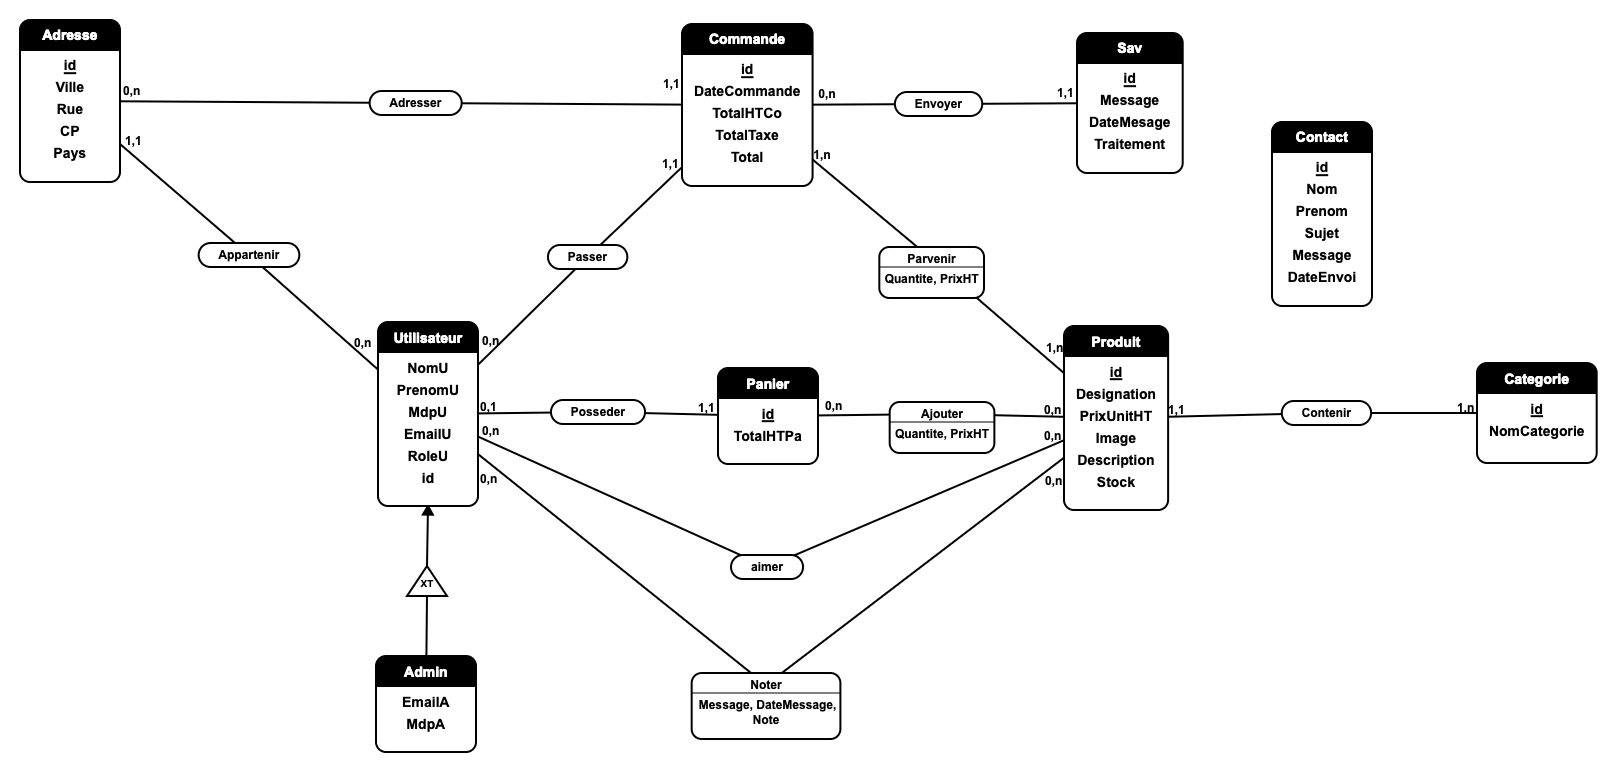
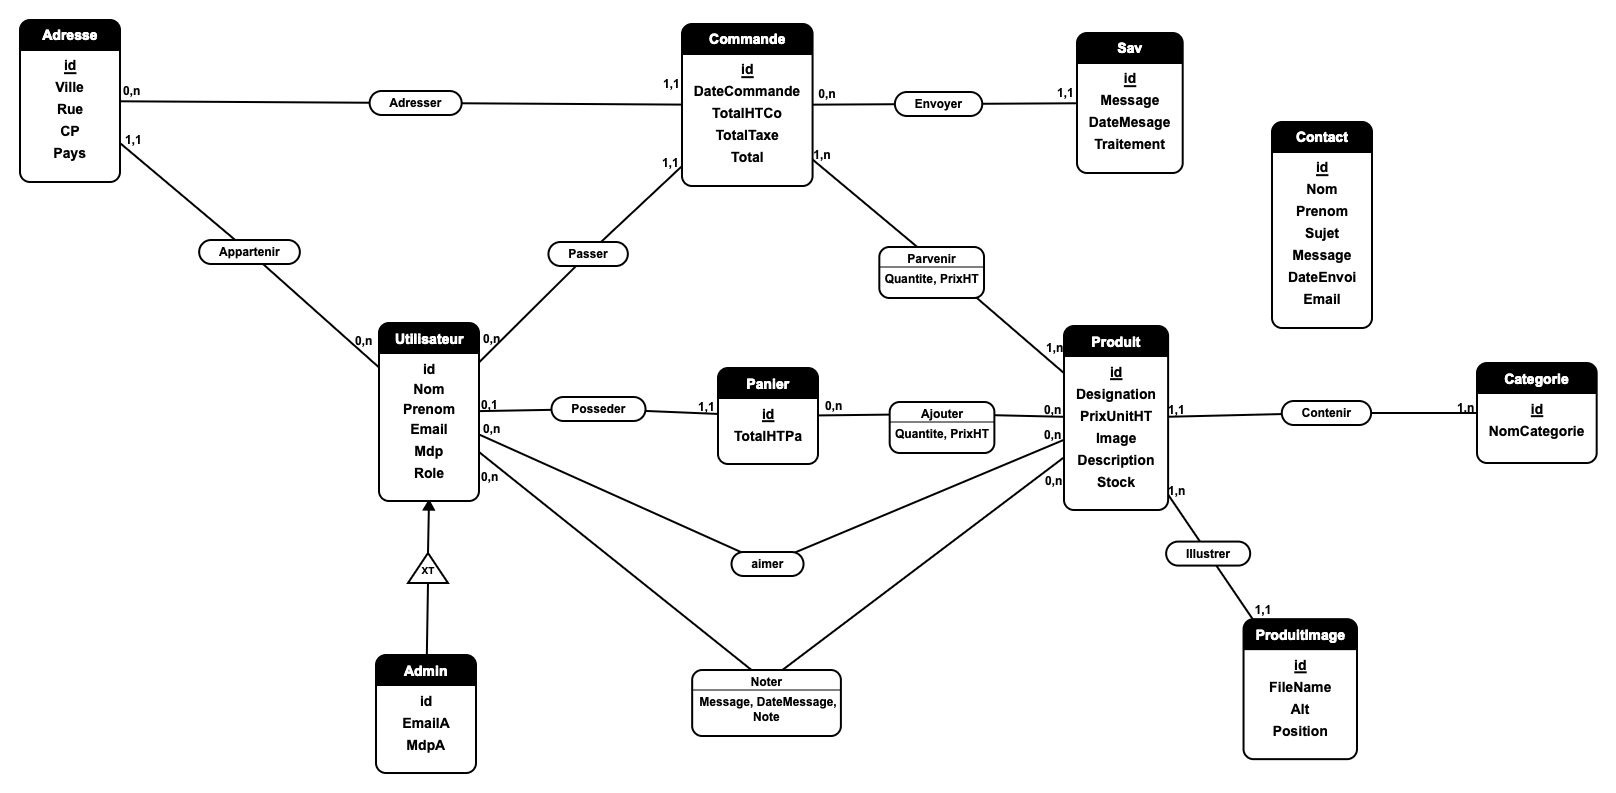
fix des incohérence des catégories

diff --git a/StreamCorner/migrations/Version20260511120000.php b/StreamCorner/migrations/Version20260511120000.php
@@ -1,0 +1,26 @@
+<?php
+
+declare(strict_types=1);
+
+namespace DoctrineMigrations;
+
+use Doctrine\DBAL\Schema\Schema;
+use Doctrine\Migrations\AbstractMigration;
+
+final class Version20260511120000 extends AbstractMigration
+{
+    public function getDescription(): string
+    {
+        return 'Rename the Video product category to Diffusion.';
+    }
+
+    public function up(Schema $schema): void
+    {
+        $this->addSql("UPDATE categorie SET nom_categorie = 'Diffusion' WHERE nom_categorie IN ('Video', 'video', 'Vidéo', 'vidéo')");
+    }
+
+    public function down(Schema $schema): void
+    {
+        $this->addSql("UPDATE categorie SET nom_categorie = 'Video' WHERE nom_categorie = 'Diffusion'");
+    }
+}

diff --git a/StreamCorner/src/Repository/ProduitRepository.php b/StreamCorner/src/Repository/ProduitRepository.php
@@ -144,7 +144,7 @@ class ProduitRepository extends ServiceEntityRepository
         return match ($slug) {
             'audio' => ['audio'],
             'eclairage' => ['eclairage', 'éclairage', 'light'],
-            'diffusion' => ['diffusion', 'stream', 'video', 'vidéo', 'controle', 'contrôle', 'accessoire'],
+            'diffusion', 'video' => ['diffusion', 'video', 'vidéo'],
             default => [$slug],
         };
     }

diff --git a/README.md b/README.md
@@ -17,7 +17,7 @@ Le projet sert aussi de support technique pour montrer la maîtrise de Symfony, 
 
 ## Accès au site 
 
-Pour accéder au site, il suffit simplement de se rendre sur le lien suivant : 
+Pour accéder au site, il suffit simplement de se rendre sur le lien suivant : https://stream-corner.rfielbal.fr
 
 - L'accès client est configuré par défaut lors de la création d'un compte ; 
 - Pour visualiser le site en tant que visiteur administrateur, connectez-vous avez les identifiants suivants :
